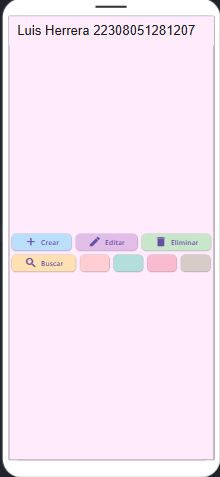
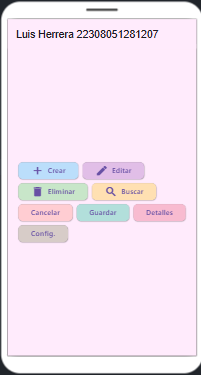
l k

Changed region(s): [[0.0, 0.0, 1.0, 1.0]]

diff --git a/lib/main.dart b/lib/main.dart
@@ -16,7 +16,7 @@ class MyApp extends StatelessWidget {
           title: const Text(
             'Luis Herrera 22308051281207',
             style: TextStyle(
-              fontSize: 25,
+              fontSize: 20,
               fontFamily: 'Roboto',
               fontWeight: FontWeight.w500,
             ),
@@ -105,7 +105,7 @@ class MyApp extends StatelessWidget {
                     borderRadius: BorderRadius.circular(8.0),
                   ),
                 ),
-                child: const SizedBox.shrink(),
+                child: const Text('Cancelar'),
               ),
               ElevatedButton(
                 onPressed: () {},
@@ -115,7 +115,7 @@ class MyApp extends StatelessWidget {
                     borderRadius: BorderRadius.circular(8.0),
                   ),
                 ),
-                child: const SizedBox.shrink(),
+                child: const Text('Guardar'),
               ),
               ElevatedButton(
                 onPressed: () {},
@@ -125,7 +125,7 @@ class MyApp extends StatelessWidget {
                     borderRadius: BorderRadius.circular(8.0),
                   ),
                 ),
-                child: const SizedBox.shrink(),
+                child: const Text('Detalles'),
               ),
               ElevatedButton(
                 onPressed: () {},
@@ -135,7 +135,7 @@ class MyApp extends StatelessWidget {
                     borderRadius: BorderRadius.circular(8.0),
                   ),
                 ),
-                child: const SizedBox.shrink(),
+                child: const Text('Config.'),
               ),
             ],
           ),
